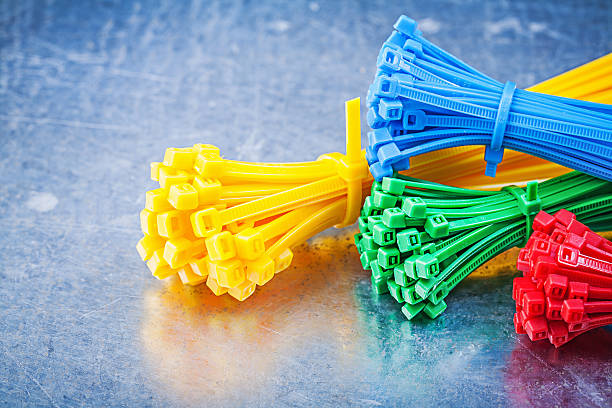
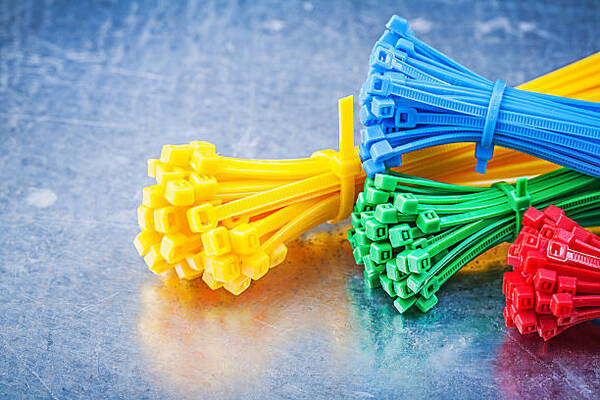
updated the images, bug fixes

diff --git a/P_A_Polymer/templates/index.html b/P_A_Polymer/templates/index.html
@@ -449,15 +449,15 @@
                         </div>
                         <div class="carousel-inner">
                             <div class="carousel-item active">
-                                <img src="/static/img/Applications/bobbins.jpeg"
-                                    class="d-block w-100" alt="...">
+                                <img src="./static/img/PBT/PBT/Sink_Tap.jpg"
+                                    class="d-block w-100 h-100" alt="...">
                             </div>
                             <div class="carousel-item">
-                                <img src="https://m.media-amazon.com/images/I/51EEqd-h71L._AC_UF1000,1000_QL80_.jpg"
-                                    class="d-block w-100" alt="...">
+                                <img src="./static/img/PBT/PBT/PTMT_Tap.jpg"
+                                    class="d-block h-100 w-100" alt="...">
                             </div>
                             <div class="carousel-item">
-                                <img src="https://m.media-amazon.com/images/I/51EEqd-h71L._AC_UF1000,1000_QL80_.jpg"
+                                <img src="./static/img/PBT/PBT/tap.png"
                                     class="d-block w-100" alt="...">
                             </div>
                         </div>
@@ -498,7 +498,7 @@
                                     class="d-block w-100" alt="...">
                             </div>
                             <div class="carousel-item">
-                                <img src="../static/img/Applications/Films for Food Pack.jpeg"
+                                <img src="../static/img/Nylon/Nylon/Nylon Cable Ties.jpg"
                                     class="d-block w-100" alt="...">
                             </div>
                             <div class="carousel-item">
@@ -591,23 +591,23 @@
                         </div>
                         <div class="carousel-inner">
                             <div class="carousel-item active">
-                                <img src="/static/img/Applications/Irrigation Sprinklers.jpg"
+                                <img src="../static/img/POM/POM/Bag Fastener.jpg"
                                     class="d-block w-100" alt="...">
                             </div>
                             <div class="carousel-item">
-                                <img src="../static/img/Applications/roller.png"
+                                <img src="../static/img/POM/POM/modular-belt-with-hold-down-edge-139.jpg"
                                     class="d-block w-100" alt="...">
                             </div>
                             <div class="carousel-item">
-                                <img src="https://www.jrdpolymer.com/images/pom.png"
+                                <img src="../static/img/POM/POM/pom-fittings-manufacturer.jpg"
                                     class="d-block w-100" alt="...">
                             </div>
                             <div class="carousel-item">
-                                <img src="../static/img/Applications/cosmetic.png"
+                                <img src="../static/img/POM/POM/sprinkler-jet-1000x1000.png"
                                     class="d-block w-100" alt="...">
                             </div>
                             <div class="carousel-item">
-                                <img src="../static/img/Applications/Irrigation Sprinklers joiner.jpg"
+                                <img src="../static/img/POM/POM/irrigation_sprinklers.png"
                                     class="d-block w-100" alt="...">
                             </div>
                         </div>
@@ -646,19 +646,19 @@
                         </div>
                         <div class="carousel-inner">
                             <div class="carousel-item active">
-                                <img src="../static/img/Applications/optical lenses.jpeg"
+                                <img src="../static/img/PMMA/PMMA/application-automotive-1080x619.jpg"
                                     class="d-block w-100" alt="...">
                             </div>
                             <div class="carousel-item">
-                                <img src="../static/img/Applications/automotive lighting.webp"
+                                <img src="../static/img/PMMA/PMMA/Bathroom Accessoiries.jpg"
                                     class="d-block w-100" alt="...">
                             </div>
                             <div class="carousel-item">
-                                <img src="../static/img/Applications/diffuser.webp"
+                                <img src="../static/img/PMMA/PMMA/pmma-plastic-end-glow-optical-fiber-light-cable-for-original-imagqgr4zwbfzzpx.webp"
                                     class="d-block w-100" alt="...">
                             </div>                            
                             <div class="carousel-item">
-                                <img src="/static/img/products/pmma.jpeg"
+                                <img src="../static/img/PMMA/PMMA/pvc-reducing-socket-1000x1000.jpg"
                                     class="d-block w-100" alt="...">
                             </div>
                         </div>
@@ -752,7 +752,7 @@
                             </div>
                             <div class="carousel-item">
                                 <img src="../static/img/Applications/toys.png"
-                                    class="d-block w-100" alt="...">
+                                    class="d-block w-100 h-100" alt="...">
                             </div>
                             <div class="carousel-item">
                                 <img src="../static/img/Applications/diffuser_lighting.jpg"
@@ -1046,7 +1046,7 @@
                         </div>
                         <div class="carousel-inner">
                             <div class="carousel-item active">
-                                <img src="../static/img/Applications/AC Cables.jpeg"
+                                <img src="../static/img/Applications/AC Cabless.jpeg"
                                     class="d-block w-100" alt="...">
                             </div>
                             <div class="carousel-item">

diff --git a/P_A_Polymer/static/css/local.css b/P_A_Polymer/static/css/local.css
@@ -83,10 +83,12 @@ h1.PA-title {
   border: 5px solid var(--bs-primary);
   border-radius: 10px;
 }
-
+.carousel-item{
+  height: 380px;
+}
 .carousel-item img {
-  min-height: 400px;
-  min-width: 400px;
-  /* max-height: 400px; */
-  /* max-width: 400px; */
+         /* Ensures the image does not exceed container width */
+  min-height: 100% ; /* Ensures the image does not exceed container height */
+  object-fit:cover ; 
+  
 }
